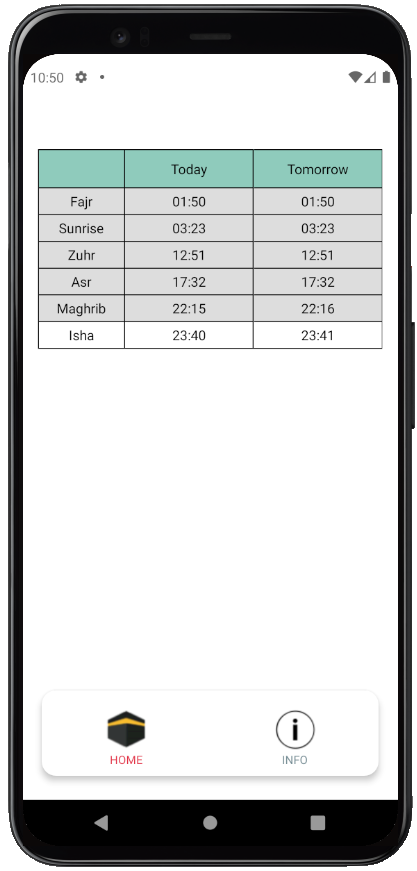
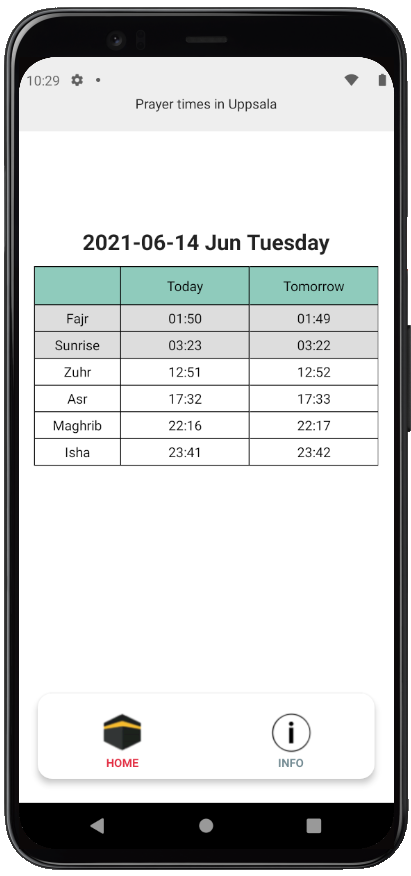
added Info tab and headings

diff --git a/screens/HomeScreen.js b/screens/HomeScreen.js
@@ -1,11 +1,37 @@
 import React, { useState, useEffect } from "react";
-import { StyleSheet, Text, View } from "react-native";
+import { StyleSheet, View } from "react-native";
+import { Text } from "react-native-elements";
 import { Table, Row } from "react-native-table-component";
 import { APIURL, ACCESS_KEY } from "@env";
 
 const CONTENT = {
   tableColHead: ["", "Today", "Tomorrow"],
 };
+
+const MONTHS = [
+  "Jan",
+  "Feb",
+  "Mar",
+  "Apr",
+  "May",
+  "Jun",
+  "Jul",
+  "Aug",
+  "Sep",
+  "Oct",
+  "Nov",
+  "Dec",
+];
+
+var DAYS = [
+  "Monday",
+  "Tuesday",
+  "Wednesday",
+  "Thursday",
+  "Friday",
+  "Saturday",
+  "Sunday",
+];
 
 export default function HomeScreen() {
   const [isLoading, setLoading] = useState(true);
@@ -22,53 +48,76 @@ export default function HomeScreen() {
   }, []);
 
   return (
-    <View style={styles.container}>
-      {isLoading ? (
-        <Text>Loading</Text>
-      ) : (
-        <Table borderStyle={{ borderWidth: 1 }}>
-          <Row
-            data={CONTENT.tableColHead}
-            flexArr={[2, 3, 3, 1]}
-            style={styles.head}
-            textStyle={styles.text}
-          />
+    <>
+      <View style={styles.header}>
+        <Text style={{ paddingTop: 20 }}>Prayer times in Uppsala</Text>
+      </View>
+      <View style={styles.container}>
+        {isLoading ? (
+          <Text>Loading</Text>
+        ) : (
+          <>
+            <View
+              style={{
+                alignItems: "center",
+              }}
+            >
+              <Text h4 style={{ paddingBottom: 10 }}>
+                {now.getFullYear() +
+                  "-" +
+                  ("0" + (now.getMonth() + 1)).slice(-2) +
+                  "-" +
+                  ("0" + now.getDate()).slice(-2) +
+                  " " +
+                  MONTHS[now.getMonth()] +
+                  " " +
+                  DAYS[now.getDay()]}
+              </Text>
+            </View>
 
-          {rsp.data.map((rowData, index) => (
-            <Row
-              key={index}
-              data={rowData}
-              flexArr={[2, 3, 3, 1]}
-              style={[
-                styles.row,
-                rsp.time >= rowData[1] && { backgroundColor: "#DDD" },
-              ]}
-              textStyle={styles.text}
-            />
-          ))}
-        </Table>
-      )}
-    </View>
+            <Table borderStyle={{ borderWidth: 1 }}>
+              <Row
+                data={CONTENT.tableColHead}
+                flexArr={[2, 3, 3, 1]}
+                style={styles.tableHead}
+                textStyle={styles.text}
+              />
+
+              {rsp.data.map((rowData, index) => (
+                <Row
+                  key={index}
+                  data={rowData}
+                  flexArr={[2, 3, 3, 1]}
+                  style={[
+                    styles.row,
+                    rsp.time >= rowData[1] && { backgroundColor: "#DDD" },
+                  ]}
+                  textStyle={styles.text}
+                />
+              ))}
+            </Table>
+          </>
+        )}
+      </View>
+    </>
   );
 }
 
-/* const styles = StyleSheet.create({
-  container: {
-    flex: 1,
+const styles = StyleSheet.create({
+  header: {
+    width: "100%",
+    height: "10%",
     alignItems: "center",
     justifyContent: "center",
-    backgroundColor: "#8fcbbc",
+    backgroundColor: "#eee",
   },
-}); */
-
-const styles = StyleSheet.create({
   container: {
     flex: 1,
     padding: 16,
     paddingTop: 100,
     backgroundColor: "#ffffff",
   },
-  head: { height: 40, backgroundColor: "#8fcbbc" },
+  tableHead: { height: 40, backgroundColor: "#8fcbbc" },
   row: { height: 28 },
   text: { textAlign: "center" },
 });

diff --git a/screens/InfoScreen.js b/screens/InfoScreen.js
@@ -1,15 +1,29 @@
 import React from "react";
-import { StyleSheet, Text, View } from "react-native";
+import { StyleSheet, View } from "react-native";
+import { Text } from "react-native-elements";
 
 export default function InfoScreen() {
   return (
-    <View style={styles.container}>
-      <Text>Build by Mohammad Hafijur Rahman</Text>
-    </View>
+    <>
+      <View style={styles.header}>
+        <Text style={{ paddingTop: 20 }}>Information</Text>
+      </View>
+      <View style={styles.container}>
+        <Text>Build with love by </Text>
+        <Text h4>Mohammad Hafijur Rahman</Text>
+      </View>
+    </>
   );
 }
 
 const styles = StyleSheet.create({
+  header: {
+    width: "100%",
+    height: "10%",
+    alignItems: "center",
+    justifyContent: "center",
+    backgroundColor: "#eee",
+  },
   container: {
     flex: 1,
     alignItems: "center",

diff --git a/navigation/Tabs.js b/navigation/Tabs.js
@@ -46,7 +46,11 @@ export default function Tabs() {
                 }}
               />
               <Text
-                style={{ color: focused ? "#e32f45" : "#748c94", fontSize: 12 }}
+                style={{
+                  color: focused ? "#e32f45" : "#748c94",
+                  fontSize: 12,
+                  fontWeight: "bold",
+                }}
               >
                 HOME
               </Text>
@@ -76,7 +80,11 @@ export default function Tabs() {
                 }}
               />
               <Text
-                style={{ color: focused ? "#e32f45" : "#748c94", fontSize: 12 }}
+                style={{
+                  color: focused ? "#e32f45" : "#748c94",
+                  fontSize: 12,
+                  fontWeight: "bold",
+                }}
               >
                 INFO
               </Text>
